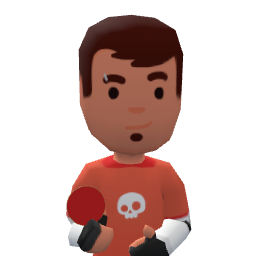
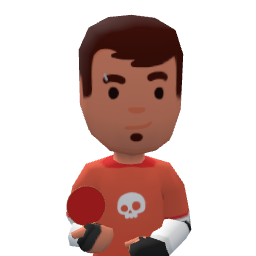
feat: Kenney 人物握拳时拇指横着包住四指，不再竖在拍面旁像点赞（持拍手、空手、看台观众都一样）；首页人物头像重新生成

Changed region(s): [[0.4688, 0.875, 0.625, 0.9688], [0.3438, 0.8125, 0.4375, 0.9062], [0.2812, 0.875, 0.3438, 0.9375]]

diff --git a/src/render/avatar/KenneyBody.ts b/src/render/avatar/KenneyBody.ts
@@ -37,9 +37,13 @@ const SKIN_URLS: Record<KenneySkin, string> = {
 
 /** 肩（上臂根部）离地多高（米）：和 paddlePose.shoulderOf 一致 */
 const SHOULDER_Z = 1.2;
-/** 拳头：食指每节往掌心弯多少；拇指往手背一侧收多少、贴到弯起来的食指上（这个手套形的手这样最像握拳；弧度） */
+/**
+ * 拳头（弧度）：四指（这个手套形的手四指连成一块，骨骼叫 Index）每节往掌心弯多少；
+ * 拇指根往掌心收（base）、往四指那边摆（swing），第二节再弯（tip），横着包住弯起来的四指。
+ * 以前拇指往手背收，拳头一握拇指竖在外面，像点赞
+ */
 const FINGER_CURL = 1.25;
-const THUMB_CURL = -0.6;
+const THUMB_CURL = { base: 0.9, swing: 0.9, tip: 1.0 };
 /** 握拍处在手掌里的位置：从手腕顺着手指方向、往掌心外各多远（按手掌长的比例） */
 const GRIP_ALONG = 0.55;
 const GRIP_OUT = 0.3;
@@ -360,7 +364,7 @@ export class KenneyBody implements AvatarBody {
     return { finger, palm: palm.normalize(), thumb, length };
   }
 
-  /** 手指弯成拳头（只做一次）：食指往掌心弯，拇指收过来贴住食指 */
+  /** 手指弯成拳头（只做一次）：四指往掌心弯，拇指收过来横着包住四指 */
   private makeFists(): void {
     for (const side of ['Left', 'Right'] as const) {
       const h = this.hands[side];
@@ -368,7 +372,9 @@ export class KenneyBody implements AvatarBody {
       const thumbAxis = new THREE.Vector3().crossVectors(h.thumb, h.palm).normalize();
       for (const n of ['Index1', 'Index2', 'Index3'])
         this.curl(`${side}Hand${n}`, fingerAxis, FINGER_CURL);
-      this.curl(`${side}HandThumb1`, thumbAxis, THUMB_CURL);
+      this.curl(`${side}HandThumb1`, thumbAxis, THUMB_CURL.base);
+      this.curl(`${side}HandThumb1`, h.palm, THUMB_CURL.swing);
+      this.curl(`${side}HandThumb2`, thumbAxis, THUMB_CURL.tip);
     }
   }
 
